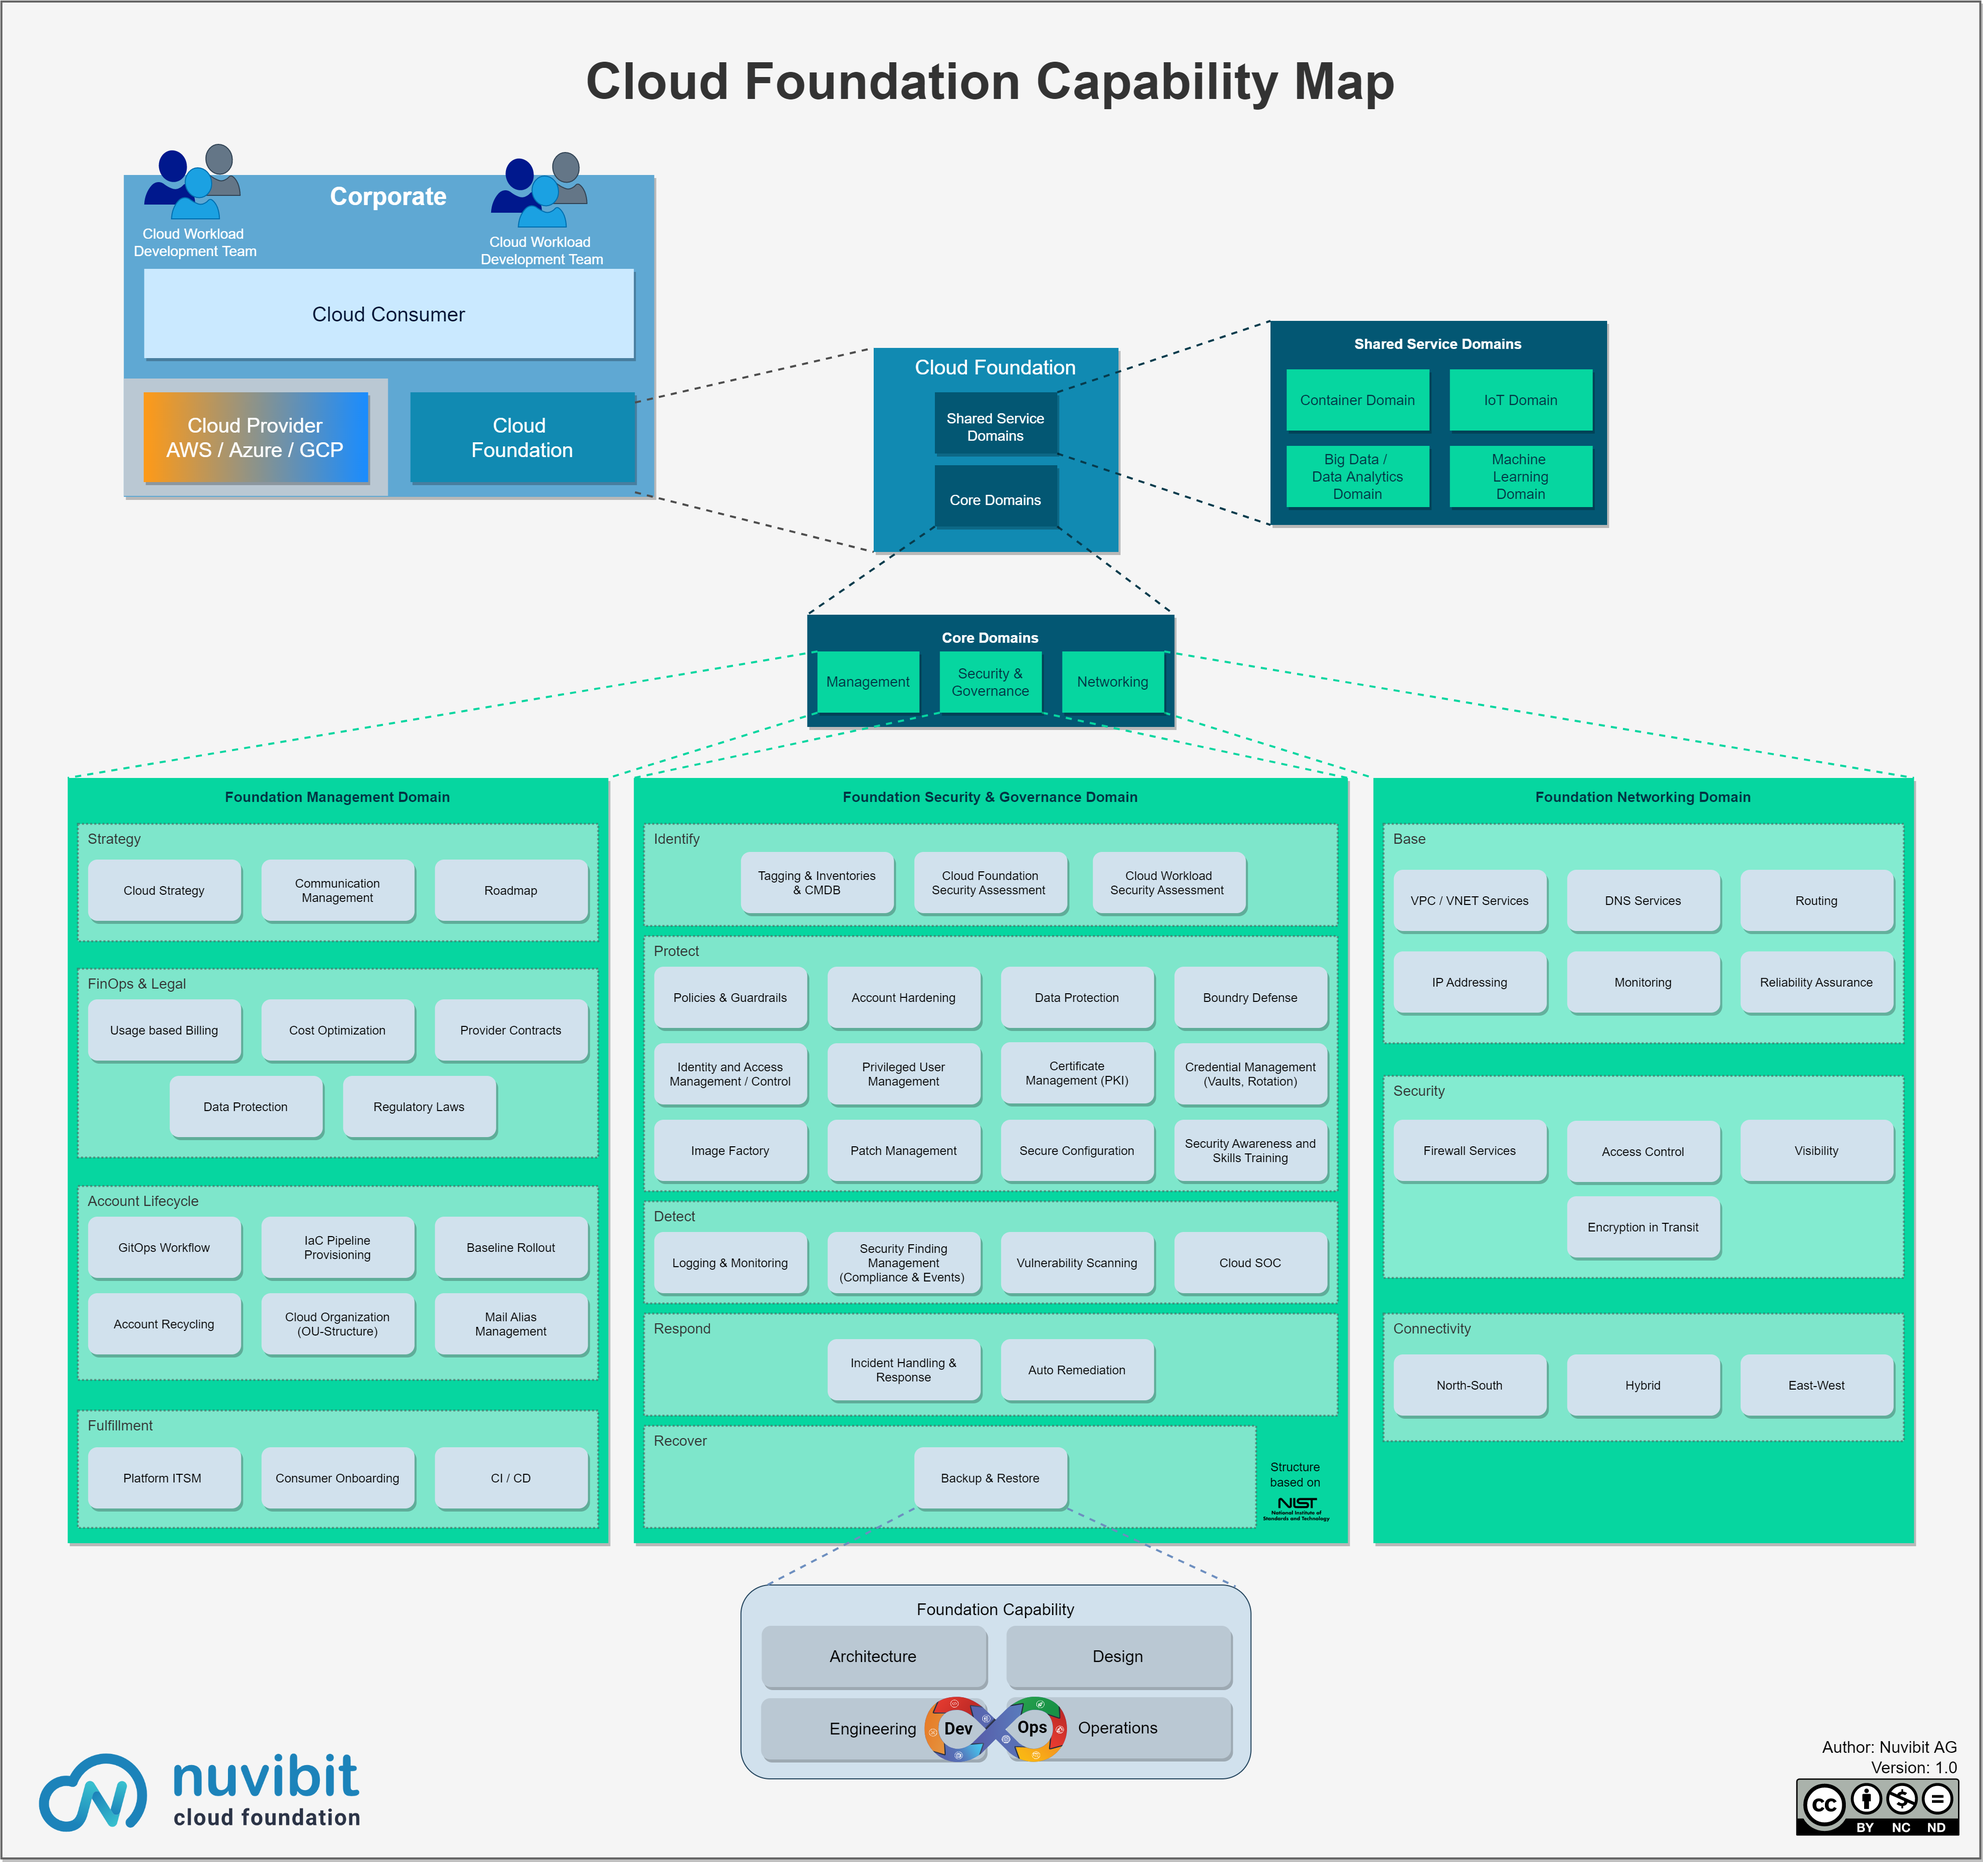
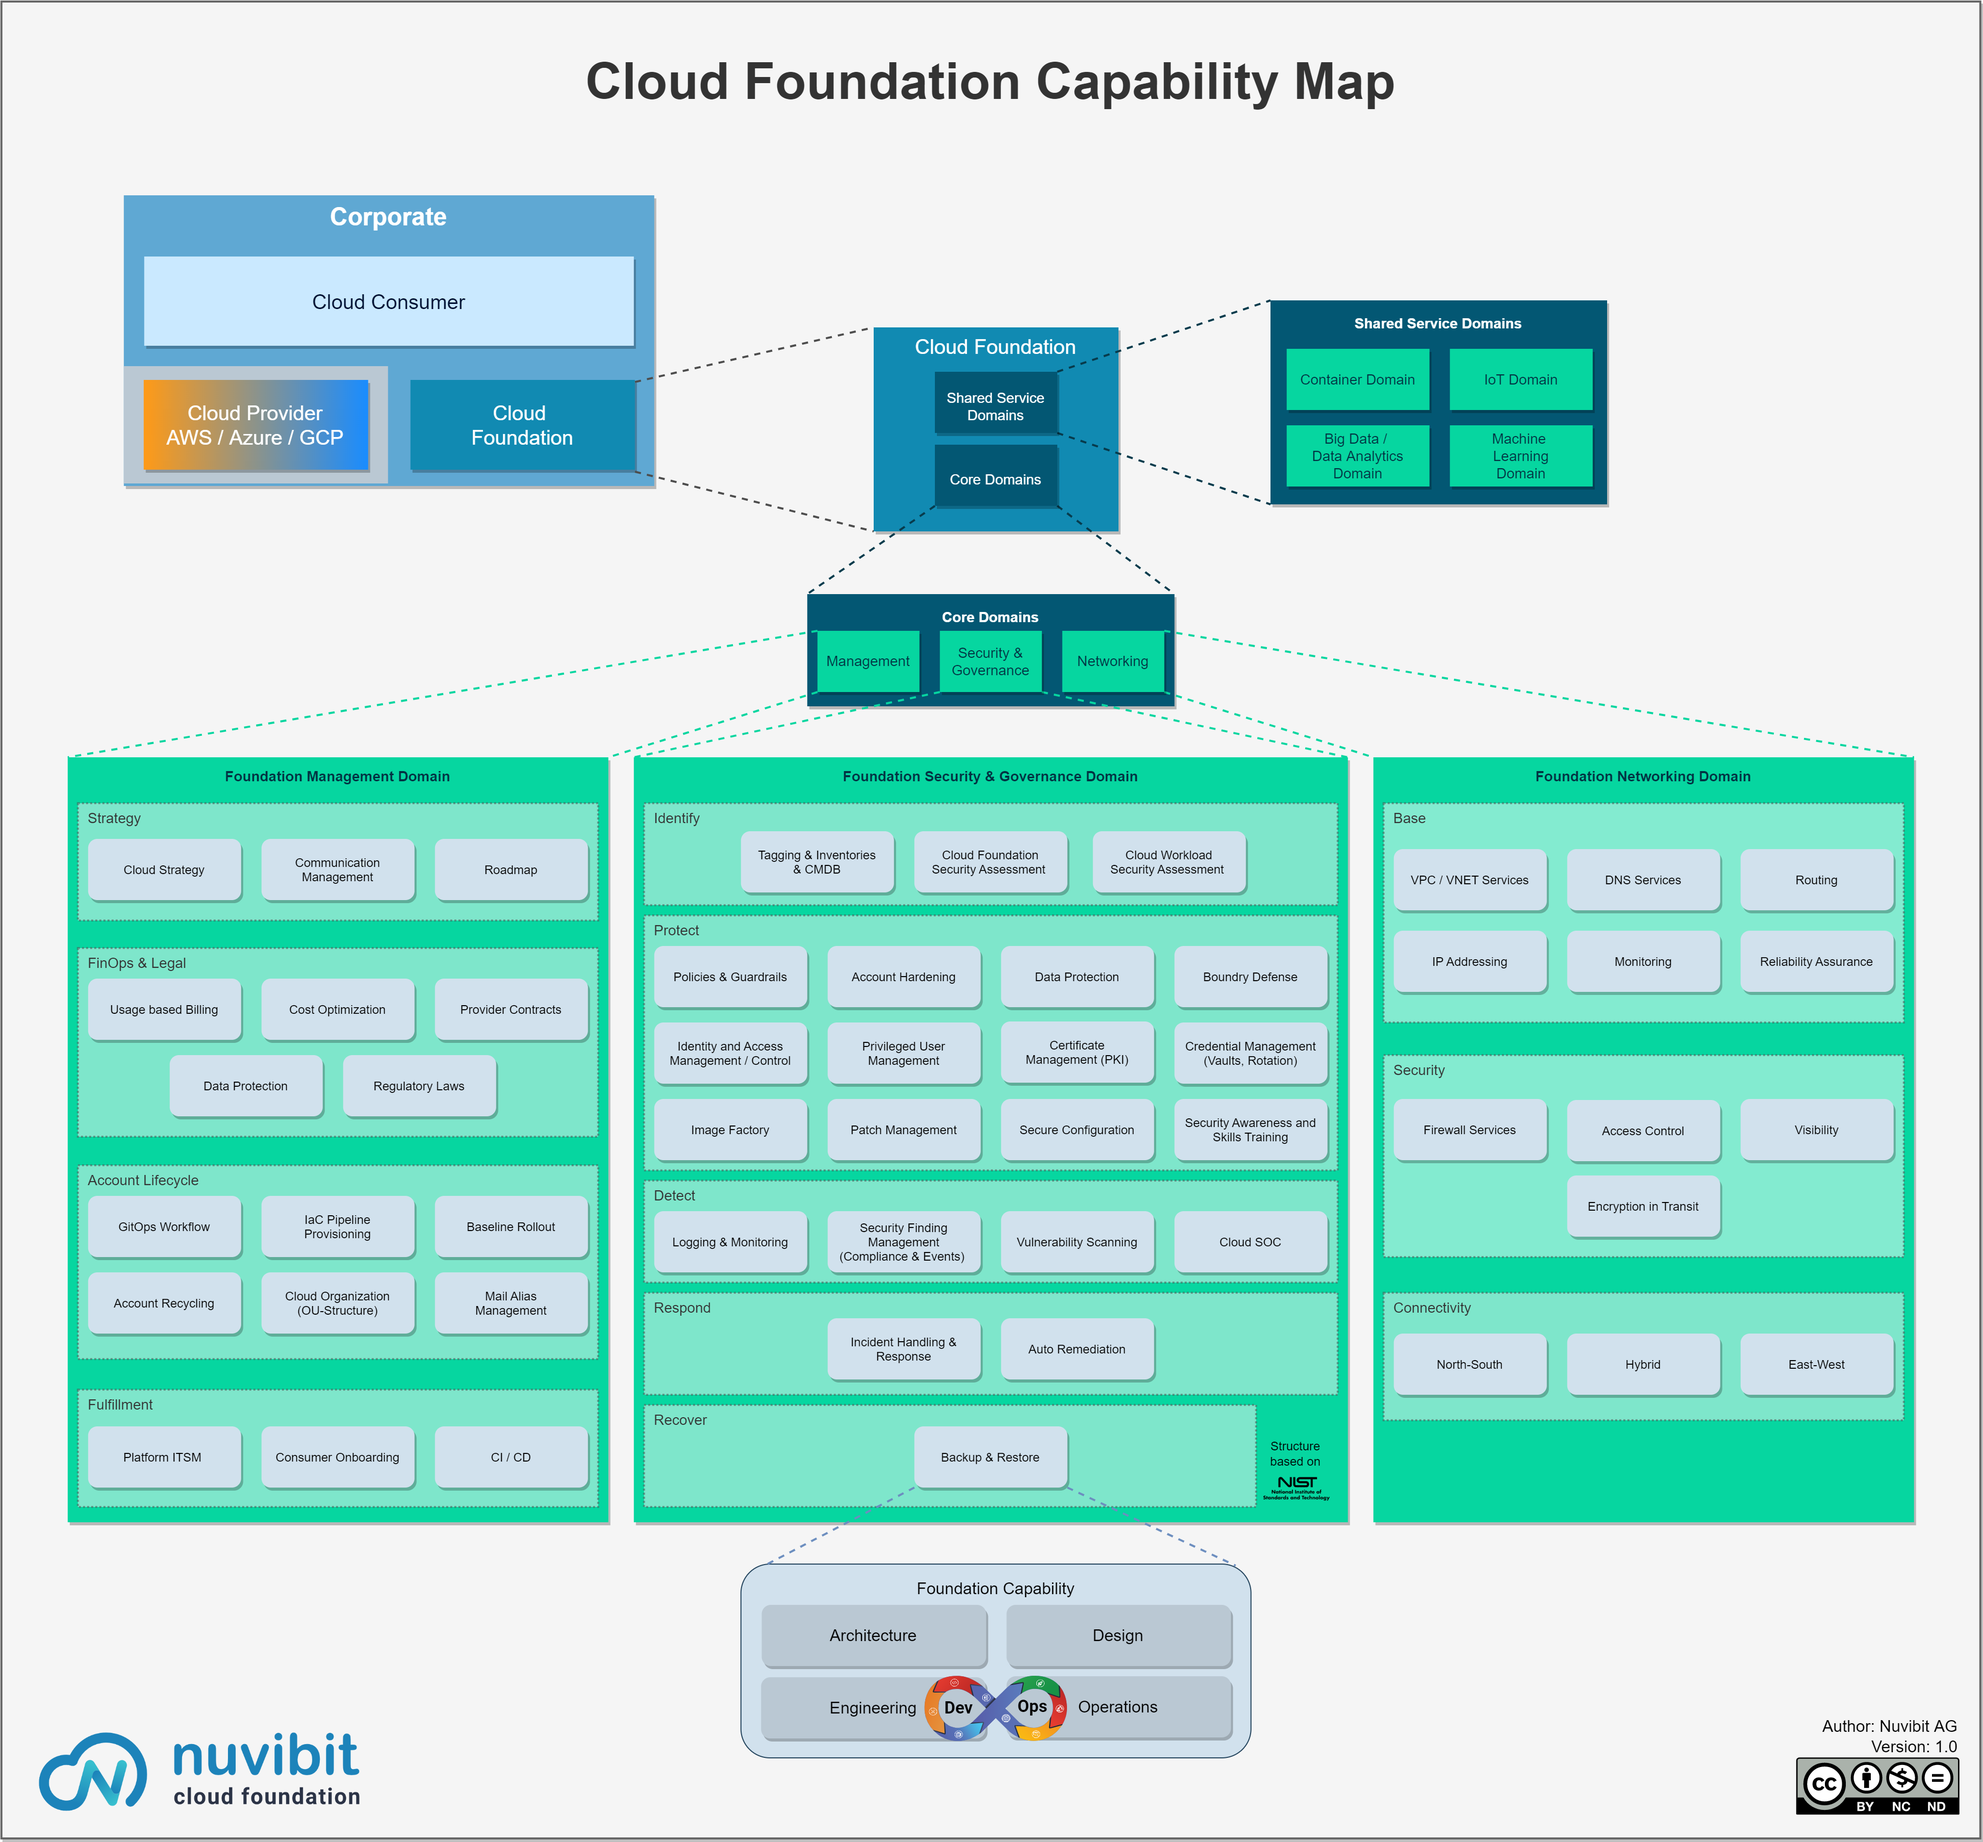
Input from Christoph

diff --git a/content/deutsch/blog/cloud-foundation-map.md b/content/deutsch/blog/cloud-foundation-map.md
@@ -18,7 +18,7 @@ Jeder, der mit Hyperscalern wie AWS, Azure oder GCP zu tun hat, ist bereits mit 
 In großen Unternehmen, in denen mehrere Entwicklungsteams mehrere Workloads in der Cloud betreuen, ist es von Vorteil, einige der Aufgaben zu zentralisieren, um die internen Entwicklungsteams zu entlasten.
 
 ## Erweitertes Modell der geteilten Verantwortung
-Dies führt zu einem **Erweitertes Modell der geteilten Verantwortung**, das sich von einer bidirektionalen Beziehung zwischen **Corporate Cloud Consumer** und dem **Cloud Provider** zu einer Dreiecksbeziehung zwischen dem **Corporate Cloud Consumer**, den **Corporate Cloud Foundation Squad** und dem **Cloud Provider** entwickelt. 
+Dies führt zu einem **Erweitertes Modell der geteilten Verantwortung**, das sich von einer bidirektionalen Beziehung zwischen **Cloud Consumer** und dem **Cloud Provider** zu einer Dreiecksbeziehung zwischen dem **Cloud Consumer**, den **Cloud Foundation Team(s)** und dem **Cloud Provider** entwickelt. 
 
 ![img](images/blog/ncfcm/extended_srm.png)
 

diff --git a/content/english/blog/cloud-foundation-map.md b/content/english/blog/cloud-foundation-map.md
@@ -18,7 +18,7 @@ Anyone engaged with hyperscalers like AWS, Azure or GCP has already encountered 
 In large enterprises where multiple development teams run multiple workloads in the cloud, it is beneficial, to centralize some of the customer responsibilities to offer them to the internal development teams in a streamlined way.
 
 ## Extended Shared Responsibility Model
-This leads to an **Extended Shared Responsibility Model** shifting from a bi-directional relationship between **Corporate Cloud Consumer** and the **Cloud Provider** to a triangle relationship between the **Corporate Cloud Consumer**, the **Corporate Cloud Foundation Squad** and the **Cloud Provider**. 
+This leads to an **Extended Shared Responsibility Model** shifting from a bi-directional relationship between **Cloud Consumer** and the **Cloud Provider** to a triangle relationship between the **Cloud Consumer**, the **Cloud Foundation Team(s)** and the **Cloud Provider**. 
 
 
 ![img](images/blog/ncfcm/extended_srm.png)
